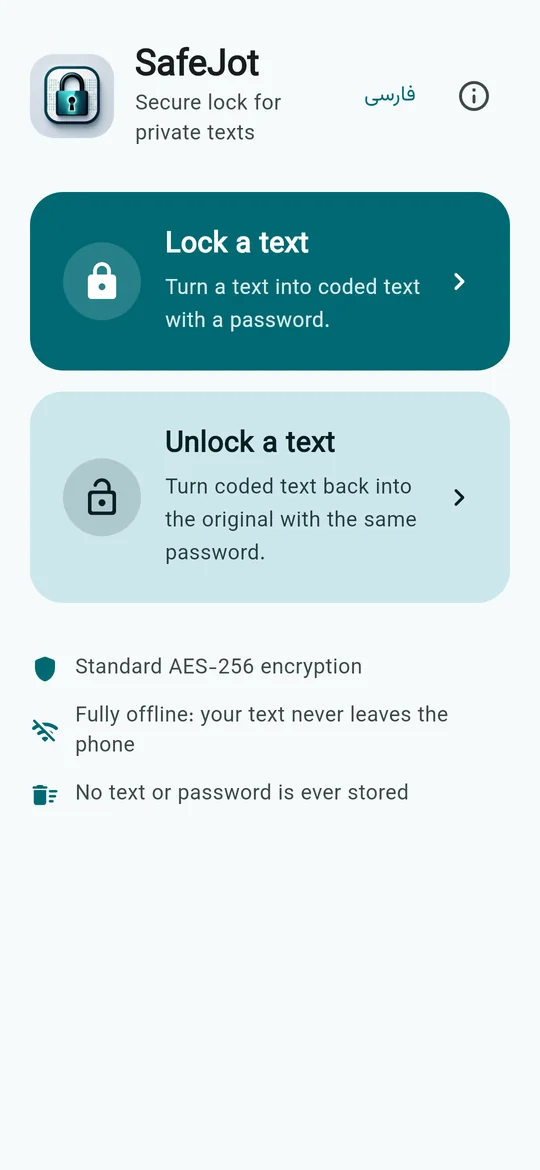
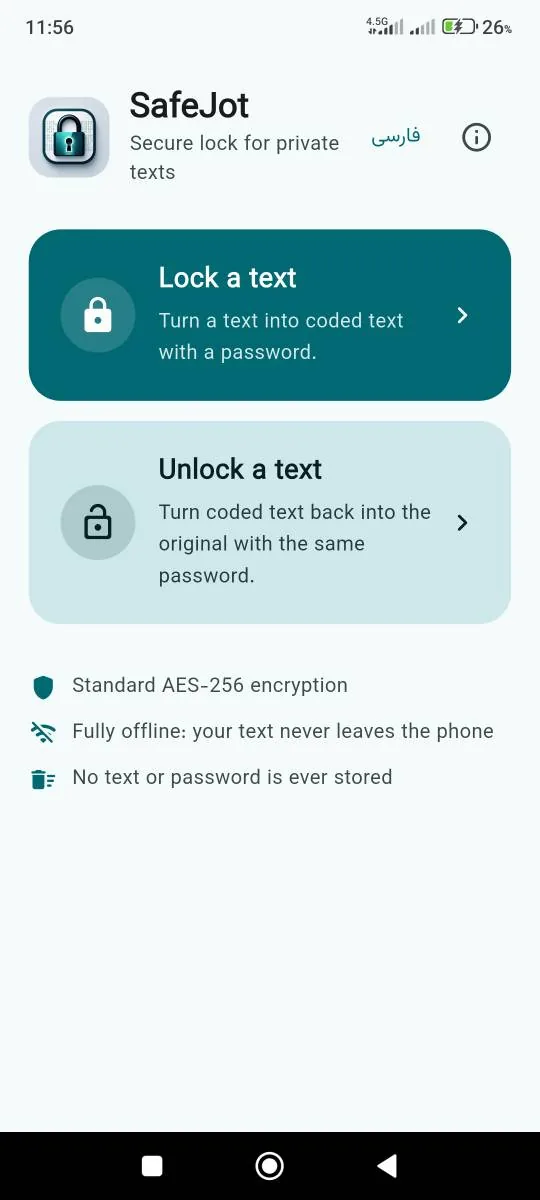
SafeJot page: under-the-hood tech section, sharper copy, real phone screenshot
- New section with key figures (256-bit key, 200,000 PBKDF2 rounds, zero
  permissions, two languages) and eight cards on how the app is built.
- Punchier hero title and lead in both languages.
- English home screenshot replaced with Mahsa's real phone screenshot.
- Persian page shows Latin terms (AES-256, RFC 7914) with Latin digits.

Claude-Session: https://claude.ai/code/session_01LGc8z2X6QPgcgrRsWaH1YA

diff --git a/app/public/wp-content/themes/quantivista/assets/css/apps.css b/app/public/wp-content/themes/quantivista/assets/css/apps.css
@@ -67,3 +67,9 @@
 .app-plan { max-width: 520px; margin-inline: auto; }
 .app-plan .btn-row { gap: 12px; }
 .app-plan__note { margin: 16px 0 0; font-size: 0.88rem; }
+
+.app-tech__stats { margin-bottom: clamp(32px, 5vw, 56px); }
+
+/* Persian page: Latin terms (AES-256, SHA-256, RFC 7914) keep Latin digits. */
+.app-landing.clinic-landing--fa,
+.app-landing.clinic-landing--fa :is(h1, h2, h3, p, li, summary, .btn) { font-family: "Inter", "Vazirmatn", ui-sans-serif, system-ui, sans-serif; }

diff --git a/app/public/wp-content/themes/quantivista/inc/apps.php b/app/public/wp-content/themes/quantivista/inc/apps.php
@@ -66,8 +66,8 @@ function qv_app_strings( $app, $lang ) {
 			'fa' => array(
 				'name'          => 'SafeJot',
 				'eyebrow'       => 'اپلیکیشن اندروید · امنیت و حریم خصوصی',
-				'title'         => 'SafeJot؛ قفلی امن برای متنهای شخصی شما',
-				'lead'          => 'یادداشت، رمز، آدرس یا هر پیام خصوصی را بنویسید، با رمز عبور خودتان قفل کنید و متن رمزی را هر جا خواستید نگه دارید یا بفرستید. فقط کسی که رمز عبور را دارد میتواند آن را باز کند. رمزنگاری استاندارد AES-256، کاملاً آفلاین، بدون حساب کاربری و بدون ذخیره هیچ متن یا رمزی.',
+				'title'         => 'SafeJot؛ رازهای شما فقط با رمز خودتان باز میشوند',
+				'lead'          => 'رمز کارت، یادداشت محرمانه، آدرس یا پیامی که نباید به دست دیگران برسد را بنویسید، با رمز عبور خودتان قفل کنید و متن رمزی را با خیال راحت در پیامرسان بفرستید یا هر جا خواستید نگه دارید. با رمزنگاری استاندارد AES-256، کاملاً آفلاین، بدون حساب کاربری و بدون ذخیره هیچ متن یا رمزی. بدون رمز شما، هیچکس، حتی سازنده برنامه، نمیتواند آن را باز کند.',
 				'buy'           => 'خرید SafeJot',
 				'more'          => 'امکانات',
 				'points'        => array( 'رمزنگاری AES-256', 'کاملاً آفلاین', 'فارسی و انگلیسی' ),
@@ -90,6 +90,25 @@ function qv_app_strings( $app, $lang ) {
 					'home'    => 'صفحه اصلی: قفل کردن یا باز کردن متن',
 					'encrypt' => 'قفل کردن متن با رمز عبور و کپی متن رمزی',
 					'decrypt' => 'باز کردن متن رمزی با همان رمز عبور',
+				),
+				'tech_eye'      => 'پشت صحنه',
+				'tech_title'    => 'مهندسیشده با استانداردهای امنیتی روز',
+				'tech_lead'     => 'SafeJot یک قفل نمایشی نیست. با همان الگوریتمها و روشهایی ساخته شده که نرمافزارهای حرفهای امنیتی به کار میبرند، و هر نسخه پیش از انتشار با تست خودکار بررسی میشود.',
+				'stats'         => array(
+					array( '۲۵۶', 'بیت طول کلید رمزنگاری' ),
+					array( '۲۰۰٬۰۰۰', 'دور محاسبه برای ساخت کلید از رمز' ),
+					array( '۰', 'مجوز اینترنت و ذخیرهسازی' ),
+					array( '۲', 'زبان: فارسی و انگلیسی' ),
+				),
+				'tech'          => array(
+					array( 'cpu', 'Flutter و Dart', 'رابط کاربری روان با فریمورک Flutter گوگل، کامپایلشده به کد بومی اندروید برای سرعت و پایداری.' ),
+					array( 'shield', 'AES-256-GCM', 'رمزنگاری احراز هویتشده: هم محتوای متن را پنهان میکند و هم هر تغییری در متن رمزی را تشخیص میدهد.' ),
+					array( 'key', 'PBKDF2-SHA256 با ۲۰۰ هزار تکرار', 'کلید با ۲۰۰ هزار دور محاسبه از رمز عبور ساخته میشود تا حدس زدن رمز، حتی با رایانههای قدرتمند، بسیار کند و پرهزینه باشد.' ),
+					array( 'sparkles', 'نمک و نانس تصادفی', 'برای هر متن، نمک ۱۶ بایتی و نانس ۱۲ بایتی تازه با مولد تصادفی امن ساخته میشود؛ هیچ دو خروجیای یکسان نیستند.' ),
+					array( 'zap', 'پیادهسازی بهینهشده', 'محاسبه SHA-256 برای همین برنامه بهینه شده تا با وجود ۲۰۰ هزار تکرار، قفل و باز کردن متن سریع بماند.' ),
+					array( 'layers', 'پردازش در پسزمینه', 'محاسبات سنگین در یک Isolate جداگانه اجرا میشود؛ صفحه هیچوقت هنگ نمیکند.' ),
+					array( 'lock', 'کمترین سطح حمله', 'بدون مجوز اینترنت، بدون پایگاه داده و بدون دسترسی به فایلها؛ چیزی برای نشت کردن وجود ندارد.' ),
+					array( 'check-circle', 'تست و ساخت خودکار', 'ساخت کلید با بردار آزمون استاندارد RFC 7914 تست میشود و هر نسخه با تستهای خودکار، بهطور خودکار در GitHub ساخته میشود.' ),
 				),
 				'steps_eye'     => 'نحوه کار',
 				'steps_title'   => 'در سه قدم',
@@ -119,8 +138,8 @@ function qv_app_strings( $app, $lang ) {
 			'en' => array(
 				'name'          => 'SafeJot',
 				'eyebrow'       => 'Android app · Security & privacy',
-				'title'         => 'SafeJot: a secure lock for your private texts',
-				'lead'          => 'Write a note, a password, an address or any private message, lock it with your own password, and keep or send the coded text anywhere. Only someone with the password can open it. Standard AES-256 encryption, fully offline, no account, and no text or password ever stored.',
+				'title'         => 'SafeJot: your secrets open only with your password',
+				'lead'          => 'Card PINs, private notes, addresses or any message that must not fall into the wrong hands: lock it with your own password, then send the coded text by any messenger or keep it anywhere, worry-free. Standard AES-256 encryption, fully offline, no account, and no text or password ever stored. Without your password nobody can open it, not even the app\'s maker.',
 				'buy'           => 'Buy SafeJot',
 				'more'          => 'Features',
 				'points'        => array( 'AES-256 encryption', 'Fully offline', 'English and Persian' ),
@@ -143,6 +162,25 @@ function qv_app_strings( $app, $lang ) {
 					'home'    => 'Home screen: lock or unlock a text',
 					'encrypt' => 'Locking a text with a password and copying the coded text',
 					'decrypt' => 'Unlocking coded text with the same password',
+				),
+				'tech_eye'      => 'Under the hood',
+				'tech_title'    => 'Engineered to today\'s security standards',
+				'tech_lead'     => 'SafeJot is not a toy lock. It is built with the same algorithms and methods professional security software uses, and every release is checked by automated tests.',
+				'stats'         => array(
+					array( '256', 'bit encryption key' ),
+					array( '200,000', 'rounds to derive the key from your password' ),
+					array( '0', 'internet or storage permissions' ),
+					array( '2', 'languages: English and Persian' ),
+				),
+				'tech'          => array(
+					array( 'cpu', 'Flutter and Dart', 'A smooth interface built with Google\'s Flutter, compiled to native Android code for speed and stability.' ),
+					array( 'shield', 'AES-256-GCM', 'Authenticated encryption: it hides the content and detects any change to the coded text.' ),
+					array( 'key', 'PBKDF2-SHA256, 200,000 rounds', 'The key is derived from your password in 200,000 rounds, so guessing passwords is slow and costly even on powerful computers.' ),
+					array( 'sparkles', 'Random salt and nonce', 'Every text gets a fresh 16-byte salt and 12-byte nonce from a secure random generator; no two outputs are alike.' ),
+					array( 'zap', 'Optimised implementation', 'SHA-256 is tuned for this app, so locking and unlocking stay quick despite 200,000 rounds.' ),
+					array( 'layers', 'Background processing', 'The heavy work runs in a separate isolate, so the screen never freezes.' ),
+					array( 'lock', 'Minimal attack surface', 'No internet permission, no database, no file access: nothing to leak.' ),
+					array( 'check-circle', 'Automated tests and builds', 'Key derivation is tested against the standard RFC 7914 test vector, and every release is built and tested automatically on GitHub.' ),
 				),
 				'steps_eye'     => 'How it works',
 				'steps_title'   => 'Three steps',

diff --git a/app/public/wp-content/themes/quantivista/template-parts/apps/landing.php b/app/public/wp-content/themes/quantivista/template-parts/apps/landing.php
@@ -93,7 +93,29 @@ if ( ! $qv_fa && function_exists( 'pll_get_post' ) ) {
 		</section>
 	<?php endif; ?>
 
-	<section class="section" aria-labelledby="app-steps">
+	<?php if ( ! empty( $qv_t['tech'] ) ) : ?>
+		<section class="section app-tech" aria-labelledby="app-tech">
+			<div class="container">
+				<?php qv_section_head( array( 'eyebrow' => $qv_t['tech_eye'], 'title' => $qv_t['tech_title'], 'lead' => $qv_t['tech_lead'], 'id' => 'app-tech' ) ); ?>
+				<ul class="stats app-tech__stats" data-reveal>
+					<?php foreach ( $qv_t['stats'] as $qv_stat ) : ?>
+						<li class="stat"><span class="stat__value"><?php echo esc_html( $qv_stat[0] ); ?></span> <span class="stat__label"><?php echo esc_html( $qv_stat[1] ); ?></span></li>
+					<?php endforeach; ?>
+				</ul>
+				<div class="grid grid--4 clinic-features">
+					<?php foreach ( $qv_t['tech'] as $qv_f ) : ?>
+						<div class="clinic-card" data-reveal>
+							<span class="clinic-card__icon"><?php qv_the_icon( $qv_f[0], array( 'size' => 22 ) ); ?></span>
+							<h3 class="clinic-card__title"><?php echo esc_html( $qv_f[1] ); ?></h3>
+							<p class="clinic-card__text"><?php echo esc_html( $qv_f[2] ); ?></p>
+						</div>
+					<?php endforeach; ?>
+				</div>
+			</div>
+		</section>
+	<?php endif; ?>
+
+	<section class="section section--muted" aria-labelledby="app-steps">
 		<div class="container">
 			<?php qv_section_head( array( 'eyebrow' => $qv_t['steps_eye'], 'title' => $qv_t['steps_title'], 'id' => 'app-steps' ) ); ?>
 			<ol class="clinic-steps app-steps">
